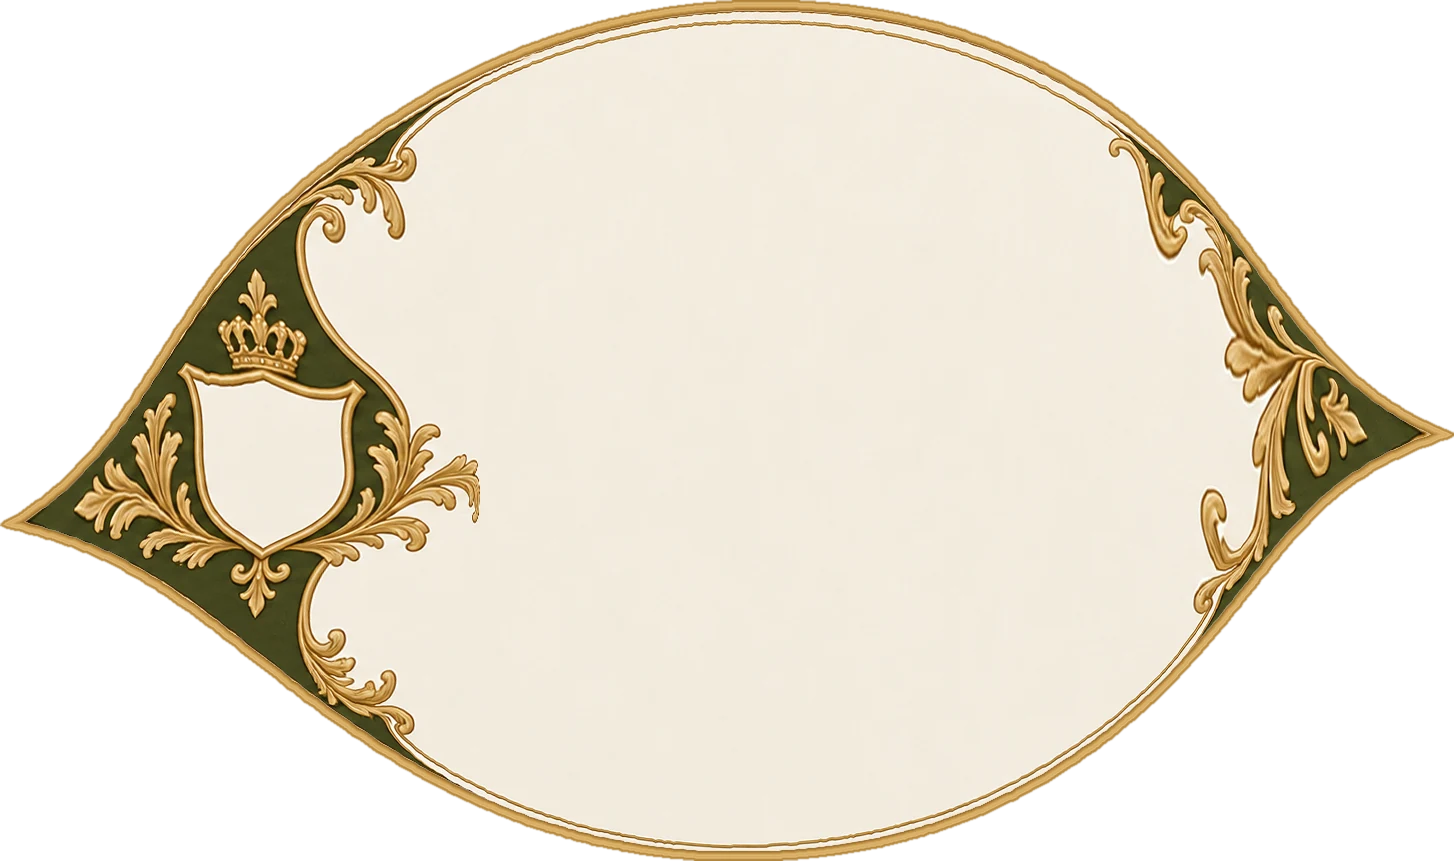
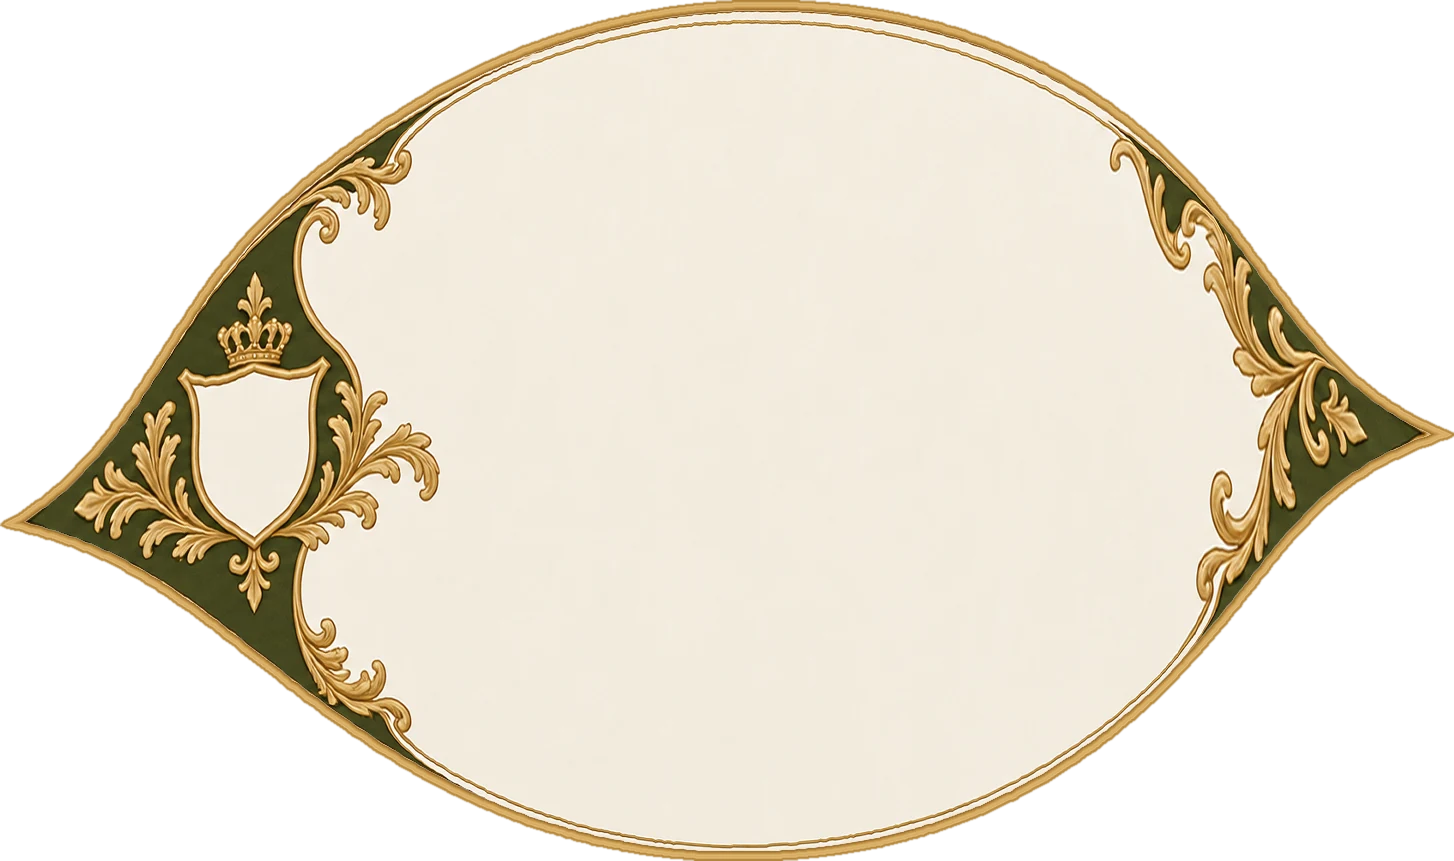
Royal Olive Crest: leaf back is #9 itself, resized to the leaf's shape
Owner's decision: the exact look of #9, expanded or reduced to the front's shape without changing
the design. #9 is now resized as one picture onto the leaf's cut line (nothing moved or redrawn);
only the gold rim and thin line keep their exact thickness along the edge. Text checked in all four
languages: none on the decoration.

Claude-Session: https://claude.ai/code/session_017BvD2Siti1CF7VSCe66pMg

Changed region(s): [[0.0619, 0.151, 0.3404, 0.8455], [0.7428, 0.151, 0.9285, 0.7549]]

diff --git a/docs/themes/royal-olive-crest/scripts/leafback.py b/docs/themes/royal-olive-crest/scripts/leafback.py
@@ -4,12 +4,14 @@ The back shares the front's cut line (the card turned over and read sideways: th
 which is fuller than #9's slim eye. #9 is mapped onto the card with an explicit, smooth map:
   * along the edge, every point keeps its distance from the rim (scaled), so the gold rim, the cream gap and the
     thin gold line run along the new edge exactly as on #9;
-  * the two end panels (crest, shield, flourishes and their S-curves) move and scale as solid pieces, so they keep
+  * optionally (panel_max > 0) the two end panels move and scale as solid pieces, so they keep
     their proportions;
   * in between, the two blend over a wide band, so the plain green and cream take the stretch.
 The outer rim is then redrawn from #9's own cross-section for a clean, even cut edge.
 
-usage: leafback4.py <#9 PNG> <outlines.ts> <out.png> [px_per_mm]
+usage: leafback.py <#9 PNG> <outlines.ts> <out.png> [px_per_mm] [blend] [panel_max] [edge_band]
+  panel_max 0 (used): #9 simply resized onto the leaf, nothing held solid; edge_band: #9 px kept at
+  their exact distance from the rim (the gold rim and thin line).
 """
 import re
 import sys
@@ -96,7 +98,7 @@ lS = at_x(loS, xxS[0])[None, :].repeat(hS, 0)
 uT = at_x(upT, xT_of[0])[None, :].repeat(hS, 0)
 lT = at_x(loT, xT_of[0])[None, :].repeat(hS, 0)
 colS = np.maximum(lS - uS, 1)
-B = np.minimum(70.0, colS / 3)
+B = np.minimum(float(sys.argv[7]) if len(sys.argv) > 7 else 70.0, colS / 3)
 dt, db = yyS - uS, lS - yyS
 # piecewise: [0,B] -> [0,gB]; [B, colS-B] -> [gB, colT-gB] linear; [colS-B, colS] -> [colT-gB, colT]
 colT = lT - uT
@@ -107,7 +109,8 @@ yT_of = np.where(dt < B, uT + dt * g,
 E = np.stack([xT_of, yT_of], -1)
 
 # ---------------------------------------------------------------- the end panels: one similarity each
-panels = {'L': (40, 560), 'R': (1330, 1735)}
+# PANEL_MAX 0: no solid panels, #9 is simply stretched to the card (owner's choice)
+panels = {'L': (40, 560), 'R': (1330, 1735)} if PANEL_MAX > 0 else {}
 
 
 def panel_xform(k):

diff --git a/docs/themes/royal-olive-crest/brief.md b/docs/themes/royal-olive-crest/brief.md
@@ -122,11 +122,11 @@ a package can offer the leaf, the heart, both or neither; a package with neither
 
 A card is cut along **one** line, so each back must lie on the front's outline (mirrored: the card turned over).
 Neither owner back matched its front: the heart back (10 % narrower) was reshaped row by row onto the front's
-outline. The leaf back (#9) is a slimmer "eye" than the leaf: shrinking it inside the leaf (first version) did not look
-like #9, so #9 is now fitted to the leaf's cut line with `scripts/leafback.py`: the crest panel and the flourish panel
-move and scale as solid pieces (never distorted), everything near the edge keeps #9's distance from the rim (the gold
-rim, the cream gap and the thin gold line run along the new edge as on #9), and the plain green and cream take the
-stretch. The gold rim is redrawn from #9's own cross-section for a clean cut edge.
+outline. The leaf back (#9) is a slimmer "eye" than the leaf. Owner's
+decision (2026-10-14): "exact look of #9, expanded or reduced to the shape of the front, without changing the design".
+So #9 is resized as one picture onto the leaf's cut line (`scripts/leafback.py`, no solid panels): each column of #9
+is stretched to the leaf's, only the gold rim and thin line keep their exact thickness along the edge. Nothing is
+moved or redrawn; the crest comes out a little taller because the leaf is fuller.
 
 Names: the largest thing on every page and card, centred, in script in every language (Pinyon Script for Latin,
 Alyamama for Arabic, Reem Kufi for Kurdish); long names step down a size so they stay whole. The QR code is drawn in the
@@ -140,7 +140,7 @@ Regenerate the artwork and cut lines with `scripts/shapes.py` (outlines go to `t
 
 ```bash
 python3 -I scripts/shapes.py leaf <#12 PNG> <#9 PNG> cream 107 out/   # front + outline
-python3 -I scripts/leafback.py <#9 PNG> themes/royal-olive-crest/v1/outlines.ts leaf-back.png 8.0565 180 1.3   # the back
+python3 -I scripts/leafback.py <#9 PNG> themes/royal-olive-crest/v1/outlines.ts leaf-back.png 8.0565 180 0 32   # the back
 python3 -I scripts/shapes.py heart <#14 PNG> <#13 PNG> none 150 out/
 ```
 
